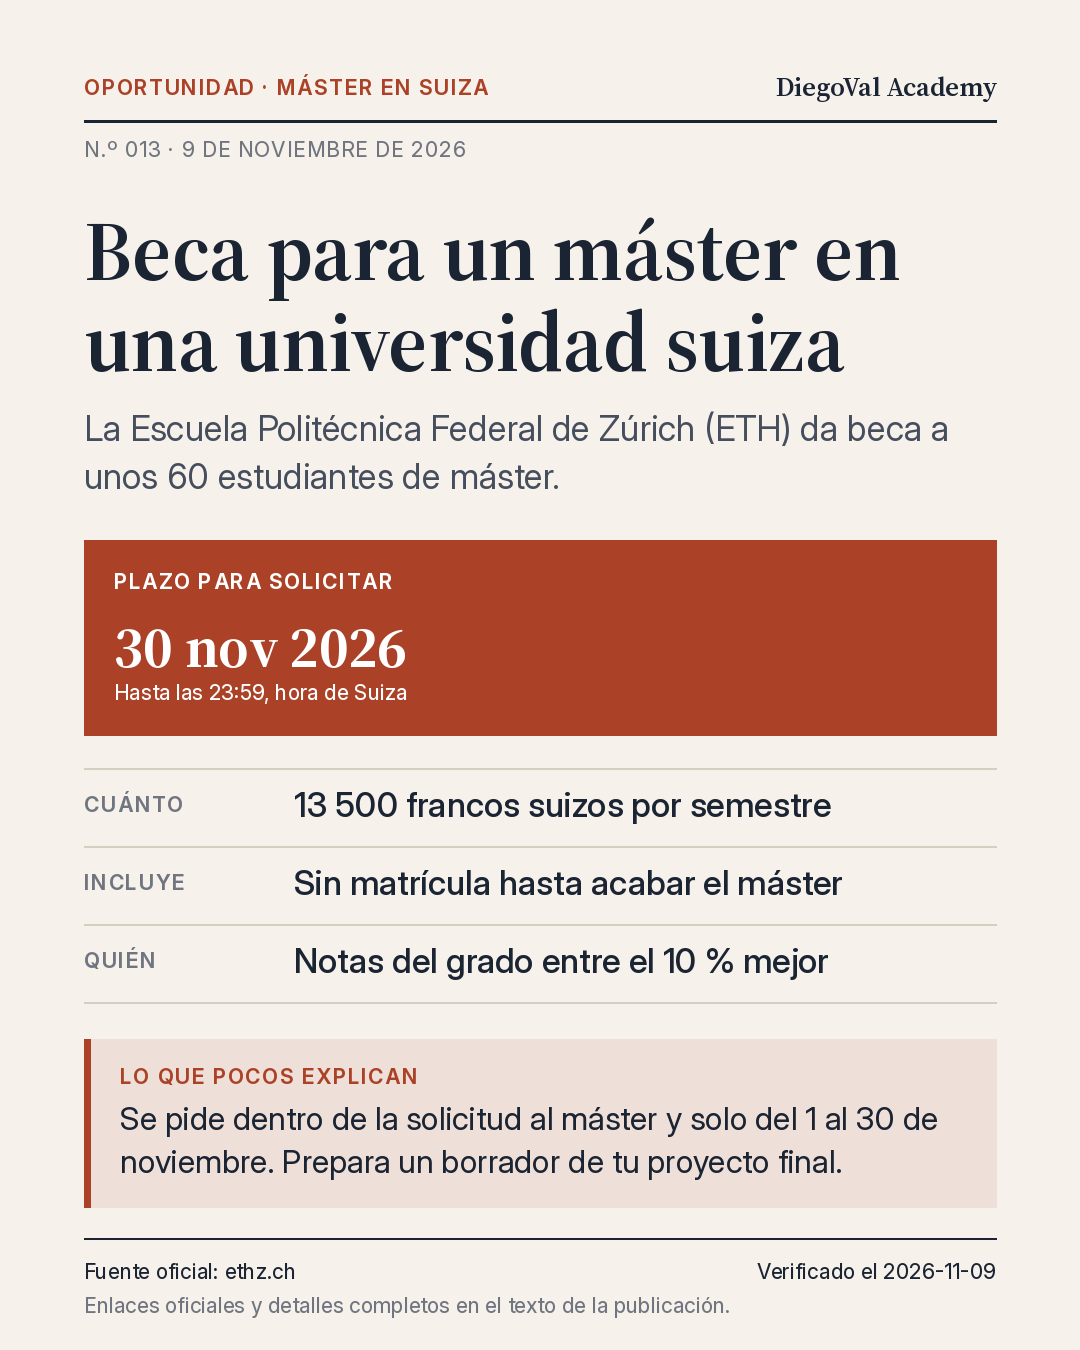
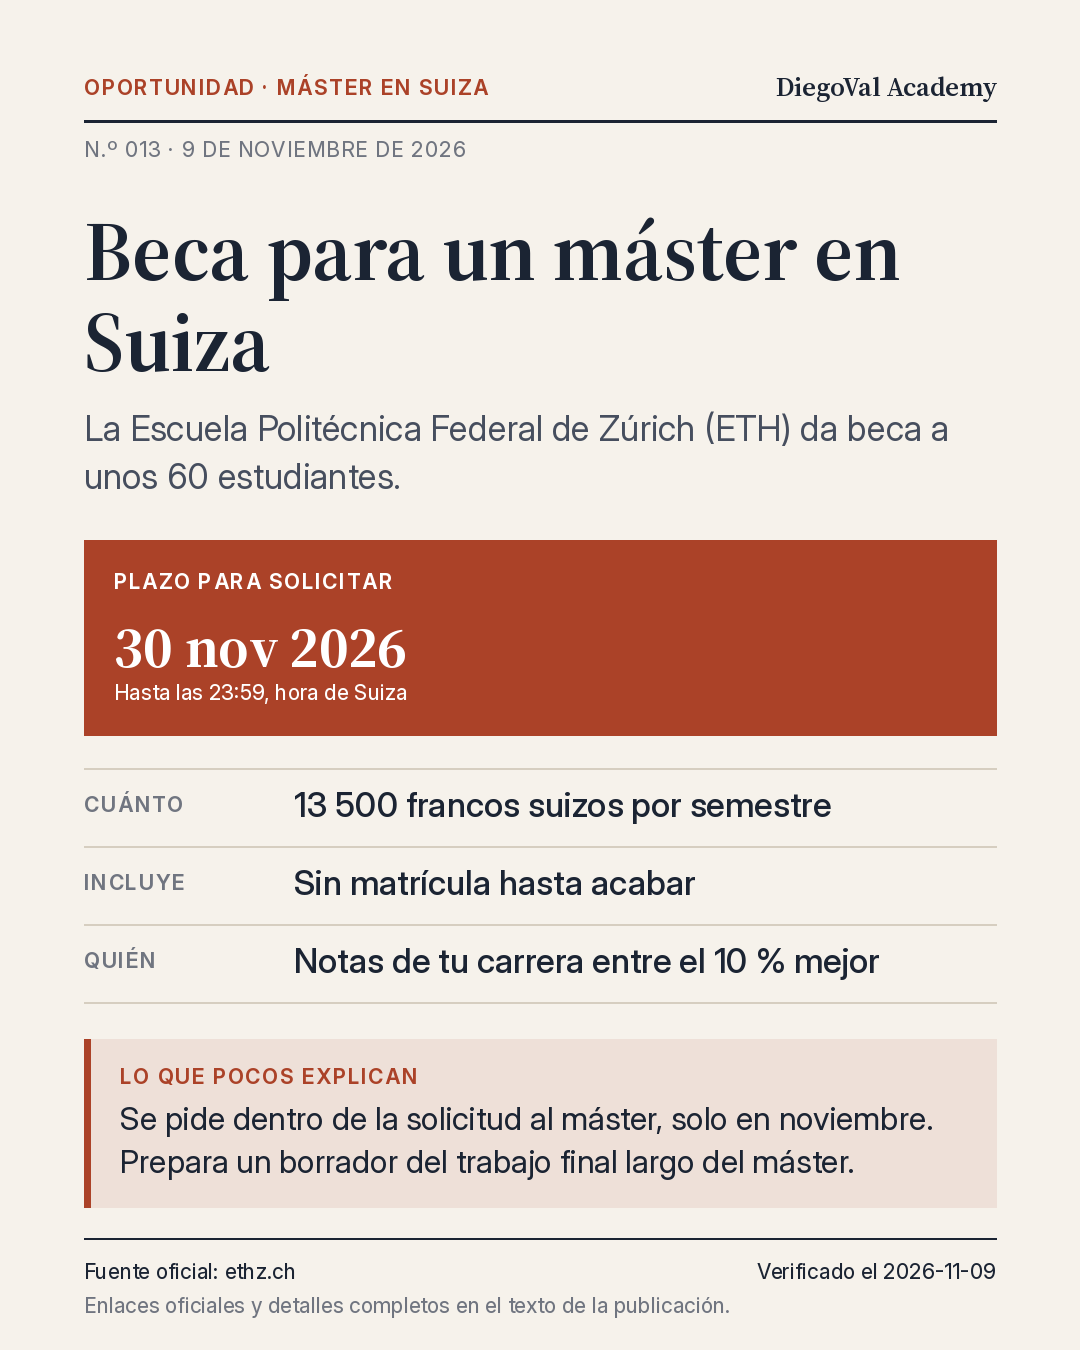
2026-11-09_lunes_eth: ajustes de lenguaje sencillo (ronda 3)
Claude-Session: https://claude.ai/code/session_01HRCw36LMgABrgBfUKMq1t2

diff --git a/posts/2026-11-09_lunes_eth-beca-excelencia-master/caption.md b/posts/2026-11-09_lunes_eth-beca-excelencia-master/caption.md
@@ -1,11 +1,11 @@
-¿Quieres hacer un máster en Suiza con beca? La Escuela Politécnica Federal de Zúrich (ETH) abre su beca de excelencia hasta el 30 de noviembre.
+¿Máster en Suiza con beca? La Escuela Politécnica Federal de Zúrich (ETH) abre su beca de excelencia hasta el 30 de noviembre.
 
 En corto:
 • Qué da: 13 500 francos suizos por semestre (medio año) y no pagas matrícula hasta acabar el máster (3 o 4 semestres).
-• Quién: quien empiece un máster allí en otoño de 2027 con notas del grado entre el 10 % mejor (lo estimas tú). No pueden pedirla quienes ya tienen un máster. La página oficial no menciona límites de nacionalidad.
-• Plazo: del 1 al 30 de noviembre de 2026, hasta las 23:59 (hora de Suiza). Hay unas 60 becas, según los fondos; resultados a finales de marzo.
+• Quién: quien empiece un máster allí en otoño de 2027 con notas de tu carrera universitaria entre el 10 % mejor (lo estimas tú). No pueden pedirla quienes ya tienen un máster.
+• Plazo: del 1 al 30 de noviembre de 2026, hasta las 23:59 (hora de Suiza). Unas 60 becas; resultados a finales de marzo.
 
-Por qué es conocida: es el programa oficial de becas de máster de esta universidad, cada año.
+Por qué es conocida: es el programa oficial de becas de máster de esta universidad suiza, con ediciones documentadas desde 2021.
 
 Lo que pocos explican: la beca no se pide aparte. Va dentro de la solicitud al máster y solo en ese mes. Te piden un borrador de tu proyecto final de máster (el trabajo largo con el que terminas), escrito por ti.
 

diff --git a/posts/2026-11-09_lunes_eth-beca-excelencia-master/validation.md b/posts/2026-11-09_lunes_eth-beca-excelencia-master/validation.md
@@ -1,6 +1,6 @@
 # Validación — 2026-11-09_lunes_eth-beca-excelencia-master
 
-Ejecutado: 2026-11-09T07:14:16+01:00
+Ejecutado: 2026-11-09T07:15:33+01:00
 Decisión: **BLOQUEADA: no publicar**
 
 | Estado | Comprobación | Detalle |
@@ -10,7 +10,7 @@ Decisión: **BLOQUEADA: no publicar**
 | PASS | Imagen | 1080x1350 PNG, 1 archivo (+5 diapositivas de carrusel, ignoradas) |
 | PASS | Canal Buffer | DiegoVal Academy (6ae0bdf22f1f5ed648eb92f9) |
 | PASS | Verificación del día | 2026-11-09 |
-| PASS | Longitud del texto | 1299/1300 caracteres |
+| PASS | Longitud del texto | 1258/1300 caracteres |
 | PASS | Fecha visible en el texto | Verificado el: 2026-11-09 |
 | PASS | Marcadores pendientes | ninguno |
 | PASS | Enlaces documentados en sources.md | 1 enlaces |

diff --git a/posts/2026-11-09_lunes_eth-beca-excelencia-master/sources.md b/posts/2026-11-09_lunes_eth-beca-excelencia-master/sources.md
@@ -25,3 +25,6 @@ ABIERTA (1-30 nov 2026). Margen: 21 días.
 
 ## Vídeo
 No se evaluó un vídeo oficial verificable en español; imagen única / carrusel.
+
+## Ediciones previas (popularidad)
+Noticias de departamentos ethz.ch sobre el programa: https://eaps.ethz.ch/en/news/archive/2021/11/excellence-scholarship-opportunity-programme-esop.html (2021), https://ee.ethz.ch/news-and-events/d-itet-news-channel/2025/10/esop-scholarships-2025-awarded.html (2025).

diff --git a/posts/2026-11-09_lunes_eth-beca-excelencia-master/validation_instagram.md b/posts/2026-11-09_lunes_eth-beca-excelencia-master/validation_instagram.md
@@ -1,6 +1,6 @@
 # Validación Instagram — 2026-11-09_lunes_eth-beca-excelencia-master
 
-Ejecutado: 2026-11-09T07:14:03+01:00
+Ejecutado: 2026-11-09T07:14:59+01:00
 Decisión: **BLOQUEADA: no publicar**
 
 | Estado | Comprobación | Detalle |
